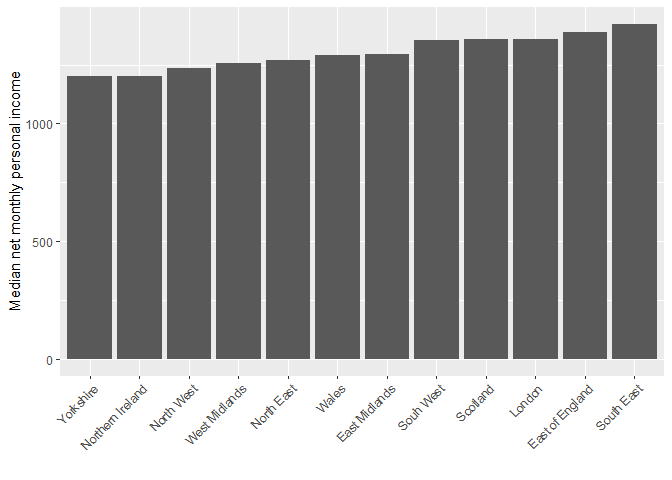
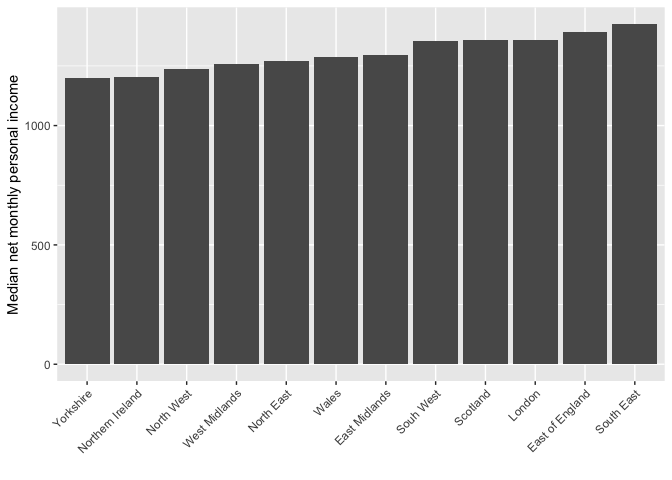
class 7 update

diff --git a/class7.md b/class7.md
@@ -57,6 +57,19 @@ Bivariate distributions.
     ```
     
     ![](class7_files/figure-gfm/unnamed-chunk-2-1.png)<!-- -->
+    
+    ``` r
+    byRegion %>%
+    ggplot(
+      aes(x = reorder(region, -medianIncome), y = medianIncome)
+      ) +
+      geom_bar(stat = "identity") +
+      xlab("") +
+      ylab("Median net monthly personal income") +
+      theme(axis.text.x = element_text(angle = 90, hjust = 1))
+    ```
+    
+    ![](class7_files/figure-gfm/unnamed-chunk-2-2.png)<!-- -->
 
 2.  Make a dot plot showing the same information as above (without
     splitting by sex). Sort regions in the descending order by mean
@@ -82,7 +95,25 @@ Bivariate distributions.
       summarise(
     medianIncome = median(h_fimnnet_dv, na.rm = TRUE)
       )
+    byAge
+    ```
     
+        ## # A tibble: 87 x 2
+        ##    h_age_dv medianIncome
+        ##       <dbl>        <dbl>
+        ##  1       16          0  
+        ##  2       17         16.0
+        ##  3       18        229. 
+        ##  4       19        436. 
+        ##  5       20        534. 
+        ##  6       21        667. 
+        ##  7       22        922. 
+        ##  8       23       1092. 
+        ##  9       24       1165. 
+        ## 10       25       1253. 
+        ## # … with 77 more rows
+    
+    ``` r
     byAge %>%
         ggplot(aes(x = h_age_dv, y = medianIncome)) +
         geom_line() +
@@ -93,30 +124,6 @@ Bivariate distributions.
     ```
     
     ![](class7_files/figure-gfm/unnamed-chunk-4-1.png)<!-- -->
-    
-    ``` r
-    # Split by sex
-    
-    byAgeSex <- Data8 %>%
-      mutate(h_sex_dv = ifelse(h_sex_dv == 1, "male",
-                           ifelse(h_sex_dv == 2, "female", NA))) %>%
-      filter(!is.na(h_sex_dv)) %>%
-      group_by(h_age_dv, h_sex_dv) %>%
-      summarise(
-    medianIncome = median(h_fimnnet_dv, na.rm = TRUE)
-      )
-    
-    byAgeSex %>%
-        ggplot(aes(x = h_age_dv, y = medianIncome, colour = h_sex_dv)) +
-        geom_line() +
-        geom_smooth() +
-        xlim(21,80) +
-        ylim(0,2500) +
-        xlab("Age") +
-        ylab("Median income")
-    ```
-    
-    ![](class7_files/figure-gfm/unnamed-chunk-4-2.png)<!-- -->
 
 4.  Open the data from the youth questionnaire from wave 8. We will be
     working with the variable on BMI (h\_ypbmi\_dv) and visualise the
@@ -125,7 +132,6 @@ Bivariate distributions.
 <!-- end list -->
 
 ``` r
-library(tidyverse)
 youth8 <- read_tsv("data/UKDA-6614-tab/tab/ukhls_w8/h_youth.tab")
 
 # summary(youth8$h_ypbmi_dv)
